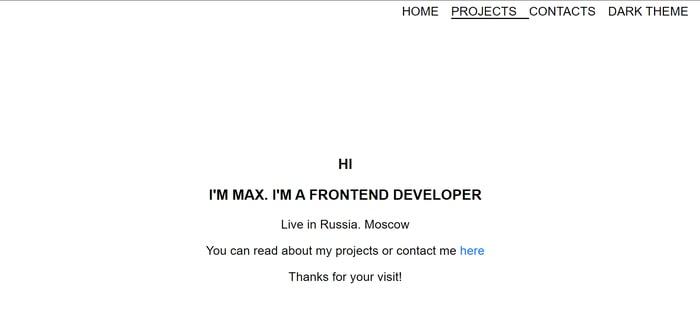
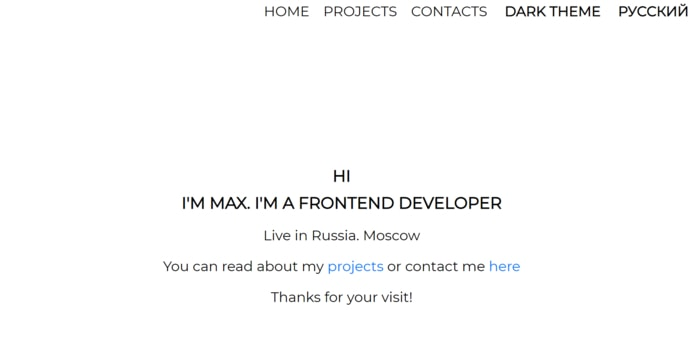
Add new project and chg in header

diff --git a/src/components/Header.tsx b/src/components/Header.tsx
@@ -8,23 +8,28 @@ import * as burgerImg from '../images/burger.svg';
 const Header: React.FC = () => {
   const { t, i18n } = useTranslation();
   const [openMenu, chgMenu] = React.useState<boolean>(false);
-  const [isDark, chgDark] = React.useState<boolean>(false);
-  // const [modeTitle, chgModeTitle] = React.useState<string>("DARK THEME");
+  const [currLanguage, setCurrLanguage] = React.useState<string>("РУССКИЙ")
   const [modeTitle, chgModeTitle] = React.useState<string>("links.dark");
+
+  function chgLanguage(): void {
+    if (currLanguage === 'РУССКИЙ') {
+      i18n.changeLanguage('ru');
+      setCurrLanguage("ENGLISH");
+    } else {
+      i18n.changeLanguage('en');
+      setCurrLanguage("РУССКИЙ");
+    }
+  }
   function chgTheme(): void {
-    if (!isDark) {
+    if (modeTitle === "links.dark") {
       const doc = document.getElementsByClassName("app")[0] as HTMLElement;
       doc.className = "app_night";
-      const body = document.body as HTMLElement;
-      body.setAttribute("style", "background-color:rgb(29, 26, 26)");
-      chgDark(!isDark);
+      document.body.setAttribute("style", "background-color:rgb(29, 26, 26)");
       chgModeTitle("links.light");
     } else {
       const doc = document.getElementsByClassName("app_night")[0] as HTMLElement;
       doc.className = "app";
-      const body = document.body as HTMLElement;
-      body.setAttribute("style", "background-color:white");
-      chgDark(!isDark);
+      document.body.setAttribute("style", "background-color:white");
       chgModeTitle("links.dark");
     }
   }
@@ -37,8 +42,7 @@ const Header: React.FC = () => {
         <Link to="/projects">{t("links.projects")}</Link>
         <Link to="/contacts">{t("links.contacts")}</Link>
         <button title="Change theme" type="button" onClick={() => chgTheme()}>{t(modeTitle)}</button>
-        <button onClick={() => i18n.changeLanguage('en')} type="button">EN</button>
-        <button onClick={() => i18n.changeLanguage('ru')} type="button">РУ</button>
+        <button onClick={() => chgLanguage()} type="button">{currLanguage}</button>
       </nav>
     </header>
   );

diff --git a/src/components/projectData.ts b/src/components/projectData.ts
@@ -2,6 +2,7 @@
 import * as CRMimg from "../images/crm.jpg";
 import * as siteImg from "../images/site.jpg";
 import * as javaImg from "../images/javaprg.jpg";
+import * as counterImg from "../images/counter.jpg";
 import * as icn from "./iconsList";
 
 
@@ -23,7 +24,7 @@ const objCRM = {
     "Linting: ESLint with Airbnb config",
     "Testing: Jest, Puppeteer, Enzyme",
     "Backend: Express.js + helmet",
-    "Browserlist: >1% and Internet Explorer 11"
+    "Browserlist: >1% (Internet Explorer 11)"
   ],
   heroku: "Hosted on Heroku free plan - page may load 5-10 sec"
 };
@@ -49,6 +50,17 @@ const objJava = {
   id: "Java",
   text: ["Language: Java", "GUI: Java Swing", "Library: Apache PDFBox"],
   heroku: "My first work project. Desktop program that takes input data, write it to PDF and print. Bundled with JRE"
+};
+
+const objCounter = {
+  name: "TIME COUNTER",
+  icons: [[icn.svelteImg, "Svelte"], [icn.webpackImg, "Webpack"]],
+  linkHub: "https://github.com/maxershov/",
+  idImg: "img-Counter",
+  src: counterImg,
+  id: "Counter",
+  text: ["Framework: Svelte", "Bundle: Webpack"],
+  heroku: "WORK IN PROGRESS"
 };
 
 
@@ -99,4 +111,15 @@ const ruJava = {
   heroku: "Первый проект для работы. Программа подставляет введенные данные в PDF заготовку и печатает документ на принтере. JRE и .jar файлы запакованы в .exe файл"
 };
 
-export { objCRM, objThis, objJava, ruCRM, ruThis, ruJava };
+const ruCounter = {
+  name: "TIME COUNTER",
+  icons: [[icn.svelteImg, "Svelte", icn.webpackImg, "Webpack"]],
+  linkHub: "https://github.com/maxershov/",
+  idImg: "img-Counter",
+  src: counterImg,
+  id: "Counter",
+  text: ["Фреймворк: Svelte", "Сборка: Webpack"],
+  heroku: "В ПРОЦЕССЕ РАЗРАБОТКИ"
+};
+
+export { objCRM, objThis, objJava, objCounter, ruCRM, ruThis, ruJava, ruCounter };

diff --git a/src/components/iconsList.ts b/src/components/iconsList.ts
@@ -14,9 +14,10 @@ import * as reactImg from "../images/react.svg";
 import * as reactRouterImg from "../images/react-router.svg";
 import * as reduxImg from "../images/redux.svg";
 import * as sassImg from "../images/sass.svg";
+import * as svelteImg from "../images/svelte.svg";
 import * as twitterImg from "../images/twitter.svg";
 import * as typescriptImg from "../images/typescript.svg";
 import * as webpackImg from "../images/webpack.svg";
 
 
-export { babelImg, electronImg, eslintImg, facebookImg, herokuImg, githubImg, ieImg, javaImg, jestImg, postcssImg, preactImg, puppeteerImg, reactImg, reactRouterImg, reduxImg, sassImg, twitterImg, typescriptImg, webpackImg };
+export { babelImg, electronImg, eslintImg, facebookImg, herokuImg, githubImg, ieImg, javaImg, jestImg, postcssImg, preactImg, puppeteerImg, reactImg, reactRouterImg, reduxImg, sassImg, svelteImg, twitterImg, typescriptImg, webpackImg };

diff --git a/src/components/ProjectsPage.tsx b/src/components/ProjectsPage.tsx
@@ -2,14 +2,14 @@
 import * as React from "react";
 import ProjectContent from "./ProjectContent";
 import { useTranslation } from "react-i18next";
-import { objCRM, objThis, objJava, ruCRM, ruThis, ruJava } from "./projectData";
+import { objCRM, objThis, objJava, ruCRM, ruThis, ruJava, objCounter, ruCounter } from "./projectData";
 import i18next from "i18next";
 
 const ProjectsPage: React.FC = () => {
   const { t } = useTranslation();
   const currLanguage = i18next.language;
-  const enObj = [objThis, objJava, objCRM];
-  const ruObj = [ruThis, ruJava, ruCRM];
+  const enObj = [objThis, objCounter, objCRM, objJava];
+  const ruObj = [ruThis, ruCounter, ruCRM, ruJava];
   return (
     <div className="projectsPage _shadow">
       <h3>{t("projects.title")}</h3>

diff --git a/src/components/App.scss b/src/components/App.scss
@@ -103,9 +103,9 @@ html {
 
 @media (min-width: 1070px) and (max-width: 1600px) {
     // set third item in grid to use all columns
-    .projects__content:nth-child(3n+0) {
-        grid-column: 1 / -1;
-    }
+    // .projects__content:nth-child(3n+0) {
+    //     grid-column: 1 / -1;
+    // }
 }
 
 .app__links {
@@ -185,7 +185,8 @@ html {
 
 #img-CRM,
 #img-Site,
-#img-Java {
+#img-Java,
+#img-Counter {
     width: 90%;
     margin: 5%;
     object-fit: contain;
@@ -195,7 +196,8 @@ html {
 
 #img-CRM:hover,
 #img-Site:hover,
-#img-Java:hover {
+#img-Java:hover,
+#img-Counter:hover {
     transform: scale(0.95);
 }
 
